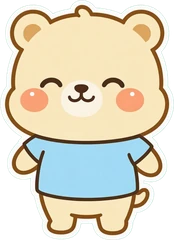
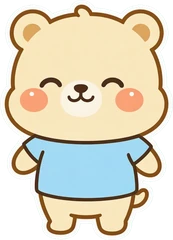
Add files via upload

diff --git a/js/art.js b/js/art.js
@@ -53,7 +53,7 @@ function mouth(r,mood,y){cx.strokeStyle='#4a2a14';cx.lineWidth=r*.06;cx.lineCap=
  else{cx.beginPath();cx.moveTo(-r*.14,y);cx.quadraticCurveTo(-r*.07,y+r*.1,0,y);cx.quadraticCurveTo(r*.07,y+r*.1,r*.14,y);cx.stroke()}}
 /* 동물/사람 반신 그리기: kind(이모지 키), 중심(x,y)=얼굴 중심, 얼굴 지름 s */
 /* 그림 파일이 있으면 코드 그림 대신 사용 (ART_IMG[kind]=Image) */
-function animal(kind,x,y,s,o={}){const im=window.ART_IMG&&window.ART_IMG[kind];if(im&&im.complete&&im.naturalWidth){const h=s*1.5,w=h*im.naturalWidth/im.naturalHeight,bob=Math.sin((o.t||0)*2.2+(o.ph||0))*s*.03;
+function animal(kind,x,y,s,o={}){const im=window.ART_IMG&&window.ART_IMG[kind];if(im&&im.complete&&im.naturalWidth){const h=s*1.62,w=h*im.naturalWidth/im.naturalHeight,bob=Math.sin((o.t||0)*2.2+(o.ph||0))*s*.03;
   cx.save();cx.translate(x,y+s*.9+bob);if(o.tilt)cx.rotate(o.tilt);if(o.mood==='a'){cx.filter='saturate(1.3) hue-rotate(-12deg)'}const sq=o.mood==='h'?1+.03*Math.sin((o.t||0)*9):1;cx.scale(1/sq,sq);cx.drawImage(im,-w/2,-h,w,h);cx.restore();return}
  return animalCode(kind,x,y,s,o)}
 function animalCode(kind,x,y,s,o={}){const sp=SP[kind]||SP['🐶'],r=s/2,t=o.t||0,ph=o.ph||0,mood=o.mood||'n',bob=Math.sin(t*2.2+ph)*r*.04,blink=((t*1.0+ph)%3.7)<.12;
@@ -307,3 +307,5 @@ function tickFx(dt){if(s)for(const c of s.cust)if(c){c.ag=(c.ag||0)+dt;if(c.rxT>
 const newUi=()=>({ft:[],pa:[],rb:0,ma:[],tp:[],fly:[],coin:[],shake:0,hud:0});
 
 return{use,E,em,tx,rr,m2,fish,rgbOf,mix,lite,dark,animal,fish2,shapePath,bread,bakeCol,steam,mold,custDraw,mpos,hit,at,rackRow,menuBar,hints,weather,fxDraw,timeBar,drawPlay,tapPlay,drainFx,tickFx,newUi,QC}};
+/* 손님 동물 그림 (img/an_*.webp, AI 일러스트) */
+ART_LOAD({'🐶':'img/an_dog.webp','🐱':'img/an_cat.webp','🐰':'img/an_rabbit.webp','🐻':'img/an_bear.webp','🐼':'img/an_panda.webp','🦊':'img/an_fox.webp','🐯':'img/an_tiger.webp','🐸':'img/an_frog.webp','🐵':'img/an_monkey.webp','🐧':'img/an_penguin.webp','🐹':'img/an_hamster.webp','🦁':'img/an_lion.webp'});

diff --git a/shop.html b/shop.html
@@ -94,7 +94,7 @@ button:active{transform:translateY(3px);box-shadow:0 1px 0 #e0c4a0}
  <div id="toast"></div>
 </div>
 <script src="js/sim.js?v=6"></script>
-<script src="js/art.js?v=10"></script>
+<script src="js/art.js?v=11"></script>
 <script src="js/iso.js?v=3"></script>
 <script src="js/shop.js?v=8"></script>
 <script type="module" src="js/net.js?v=1"></script>

diff --git a/index.html b/index.html
@@ -83,7 +83,7 @@ button:active{transform:translateY(3px);box-shadow:0 1px 0 #e0c4a0}
  <div id="toast"></div>
 </div>
 <script src="js/sim.js?v=6"></script>
-<script src="js/art.js?v=10"></script>
+<script src="js/art.js?v=11"></script>
 <script src="js/challenge.js?v=11"></script>
 <script type="module" src="js/lb.js?v=6"></script>
 </body></html>
